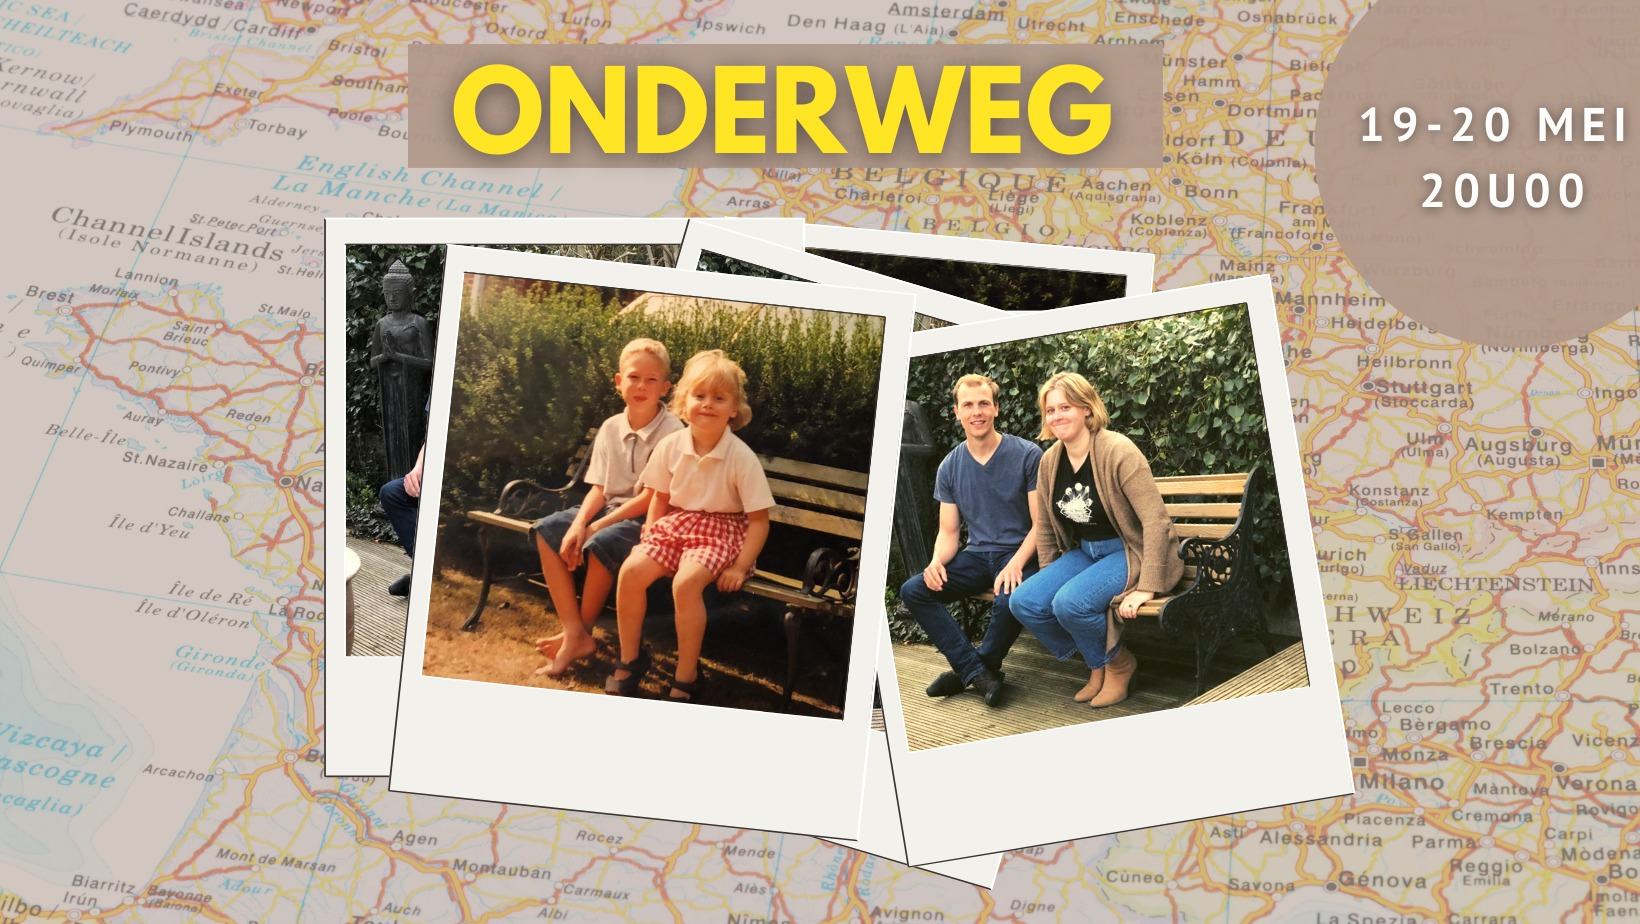
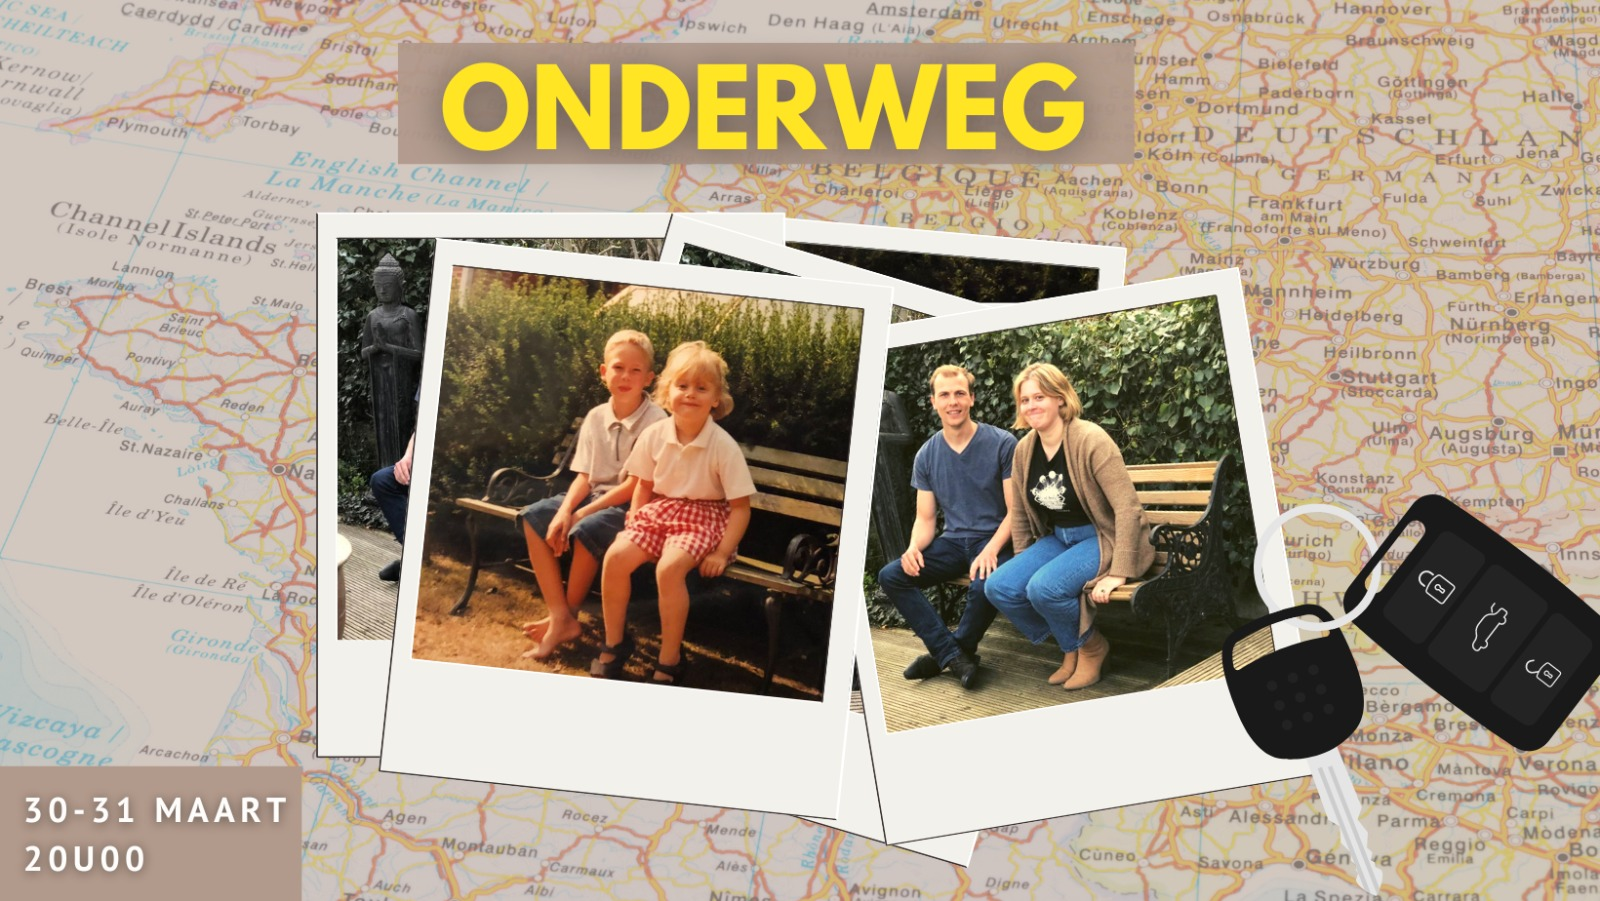
added new dates for next performances

Changed region(s): [[0.7812, 0.0, 1.0, 0.3729], [0.75, 0.5283, 1.0, 0.9945], [0.0, 0.8391, 0.1875, 1.0]]

diff --git a/src/index.html b/src/index.html
@@ -15,12 +15,6 @@
     <include src="./header.html"></include>
     <main class="main container">
       <div class="main__image">
-        <!-- <picture>
-          <source srcset="./images/homepage/maximedia-border.png?as=avif" type="image/avif" />
-          <source srcset="./images/homepage/maximedia-border.png?as=webp" type="image/webp" />
-          <source srcset="./images/homepage/maximedia-border.png" type="image/png" />
-          <img src="./images/homepage/maximedia-border.png" alt="Affiche Maxi Media" />
-        </picture> -->
         <picture>
           <source srcset="./images/homepage/onderweg.jpg?as=avif" type="image/avif" />
           <source srcset="./images/homepage/onderweg.jpg?as=webp" type="image/webp" />
@@ -29,24 +23,12 @@
         </picture>
       </div>
       <section class="main__text">
-        <!-- <h1>Onder Garantie</h1>
-        <p>Welkom bij Maxi Media...</p>
-        <p>...althans, dit is het stuk dat we zouden spelen in april 2020.</p>
-        <p>
-          We weten nog niet wanneer we opnieuw op de planken zullen staan, maar we houden je op de
-          hoogte!
-        </p>
-        <p>Hopelijk tot snel! <br />de Kippenvellers</p> -->
         <h1>Onderweg</h1>
-        <p>
-          Eindelijk is het weer zover! Kippenvel is terug en speelt in mei "Onderweg". Hopelijk zien
-          we je daar!
-        </p>
-        <p>
-          Locatie: Parochiecentrum Hoegaarden - Tiensestraat 54, 3320 Hoegaarden<br />Data: 19 & 20
-          mei, 20u
-        </p>
-        <a href="https://forms.gle/GHE1CE36hT1GdzM66" class="button">Bestel jouw tickets</a>
+        <p>In maart 2023 hernemen we ons stuk "Onderweg". Hopelijk zien we je daar!</p>
+        <p>Locatie: Stichelke - Kerkstraat 1, 3360 Lovenjoel<br />Data: 30 & 31 maart, 20u</p>
+        <a href="https://forms.gle/GHE1CE36hT1GdzM66" target="_blank" class="button"
+          >Bestel jouw tickets</a
+        >
       </section>
     </main>
     <aside class="aside">
